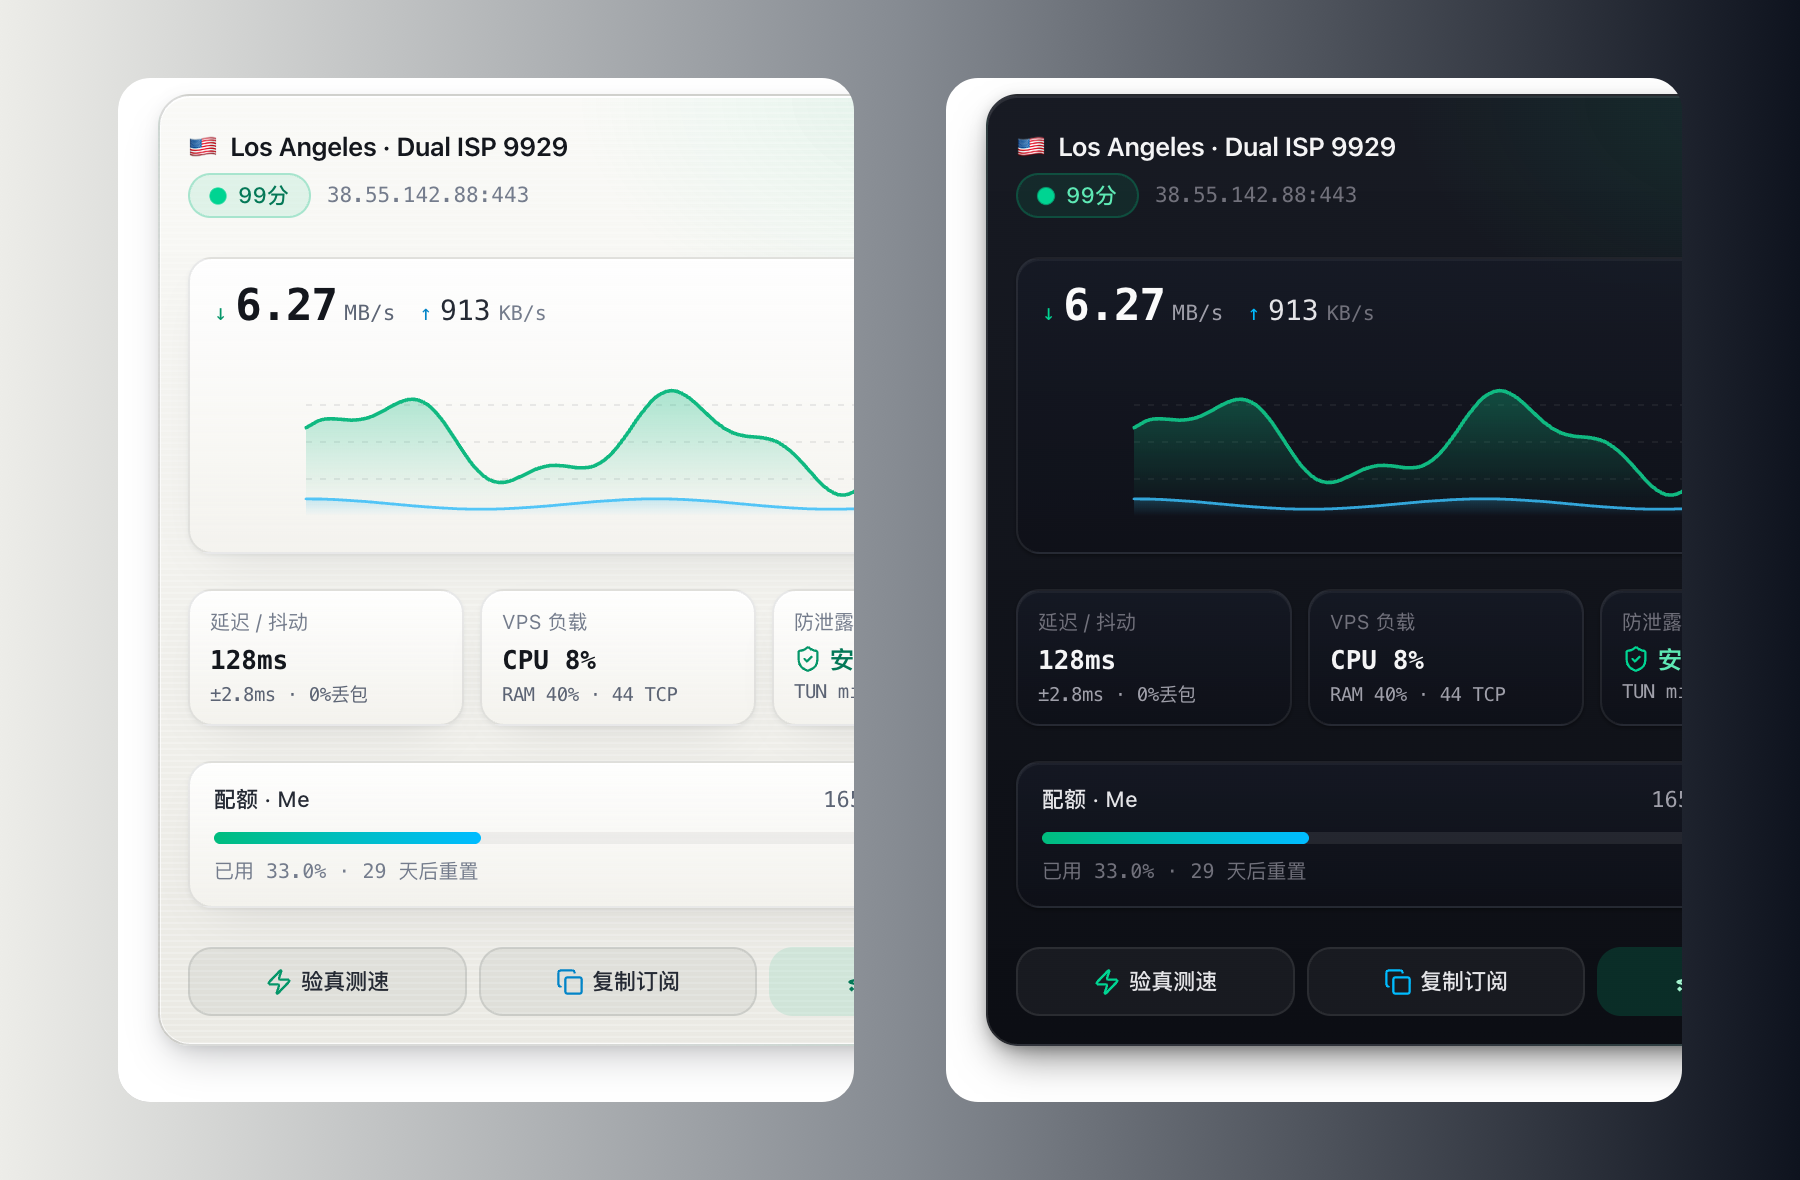
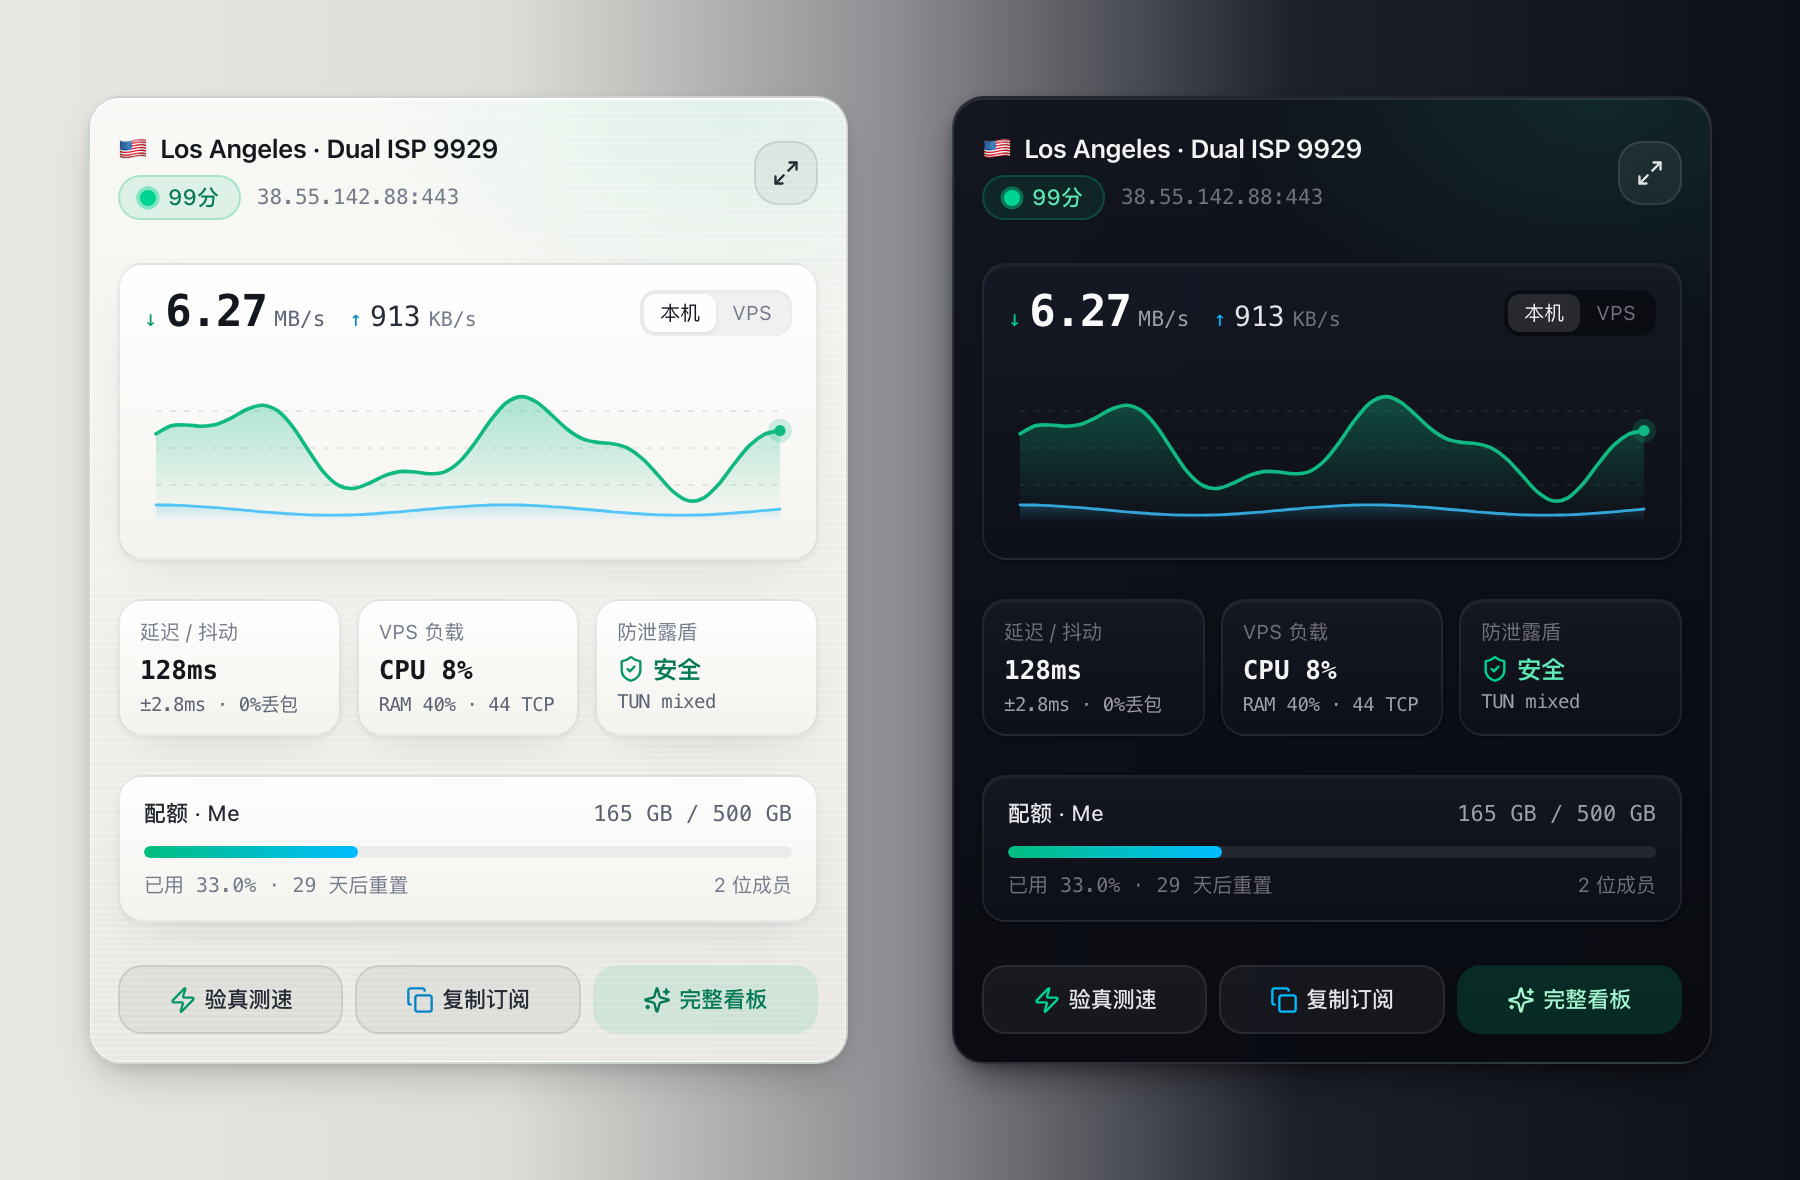
fix(app): calibrate AI latency probe with HTTP/2 warmup and re-capture unclipped HUD duo screenshot

diff --git a/app/src-tauri/src/local_probe.rs b/app/src-tauri/src/local_probe.rs
@@ -524,7 +524,8 @@ pub async fn probe_ai_endpoints() -> Vec<AiProbeResult> {
     ];
 
     let client = match Client::builder()
-        .timeout(Duration::from_secs(5))
+        .timeout(Duration::from_secs(6))
+        .local_address(std::net::IpAddr::V4(std::net::Ipv4Addr::UNSPECIFIED))
         .user_agent("native-isp-cockpit/0.1")
         .build()
     {
@@ -536,11 +537,30 @@ pub async fn probe_ai_endpoints() -> Vec<AiProbeResult> {
     for (name, host, url) in targets {
         let c = client.clone();
         handles.push(tokio::spawn(async move {
-            let start = Instant::now();
-            match c.get(url).send().await {
+            // 1) Warmup HEAD opens TCP + proxy tunnel + TLS 1.3 + HTTP/2 connection
+            //    so cold handshake overhead does not inflate interactive 1-RTT latency.
+            let t_cold = Instant::now();
+            match c.head(url).send().await {
                 Ok(resp) => {
                     let code = resp.status().as_u16();
-                    let ms = (start.elapsed().as_secs_f64() * 1000.0).round();
+                    let cold_ms = (t_cold.elapsed().as_secs_f64() * 1000.0).round().max(1.0);
+                    drop(resp);
+
+                    // 2) Two back-to-back warmed HEAD probes over the live keep-alive/H2 stream;
+                    //    take the best (min) to suppress single-packet proxy micro-stutters.
+                    let mut best_warm_ms: Option<f64> = None;
+                    for _ in 0..2 {
+                        let t = Instant::now();
+                        if let Ok(r) = c.head(url).send().await {
+                            let ms = (t.elapsed().as_secs_f64() * 1000.0).round().max(1.0);
+                            drop(r);
+                            best_warm_ms = Some(match best_warm_ms {
+                                Some(prev) => prev.min(ms),
+                                None => ms,
+                            });
+                        }
+                    }
+
                     // 2xx, 3xx, 401, 403, 404 all prove clean TLS + API reachability (no geo-block / timeout)
                     let ok = code < 500 && code != 451;
                     AiProbeResult {
@@ -548,7 +568,7 @@ pub async fn probe_ai_endpoints() -> Vec<AiProbeResult> {
                         host: host.to_string(),
                         ok,
                         status_code: Some(code),
-                        latency_ms: Some(ms),
+                        latency_ms: Some(best_warm_ms.unwrap_or(cold_ms)),
                         error: if ok { None } else { Some(format!("HTTP {}", code)) },
                     }
                 }
